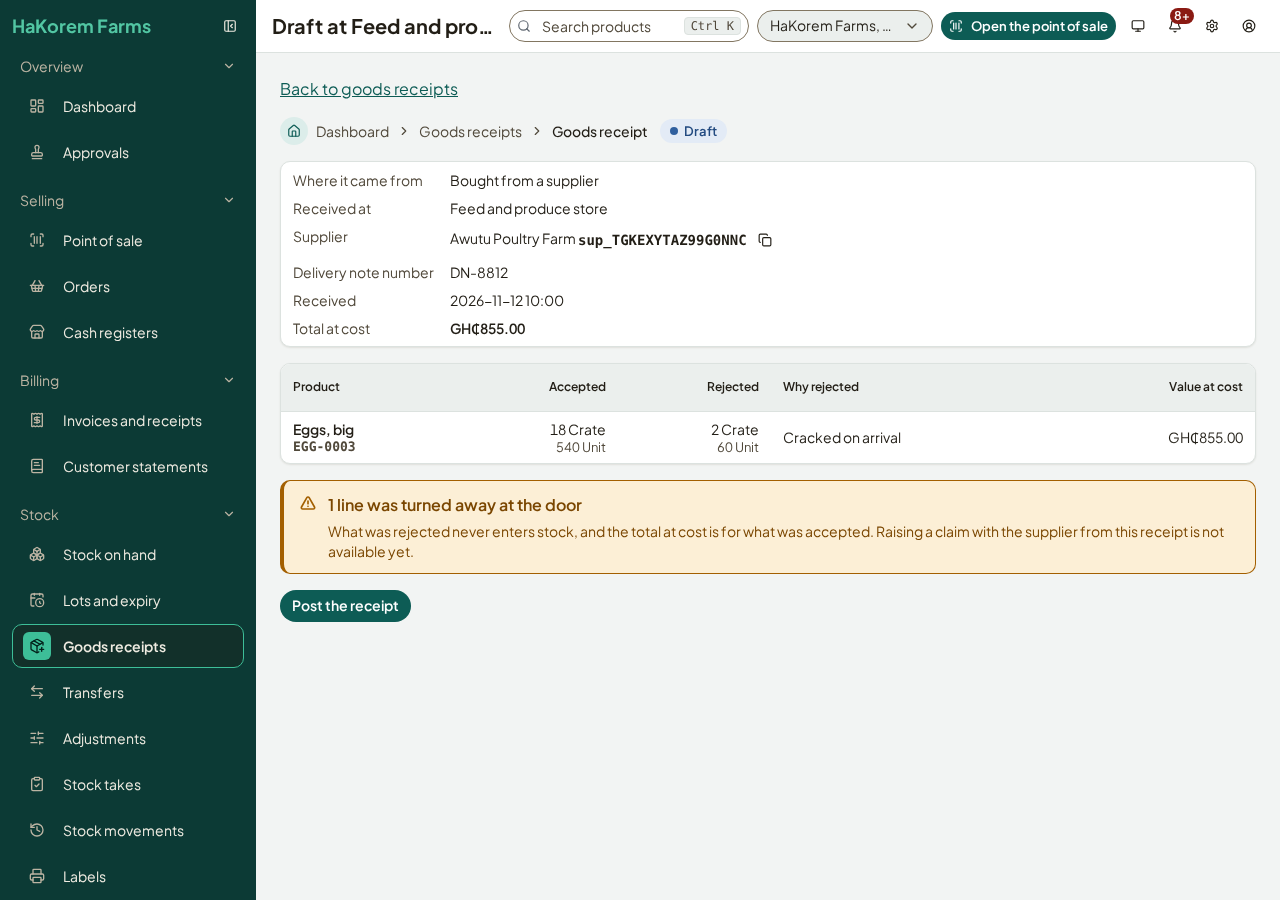
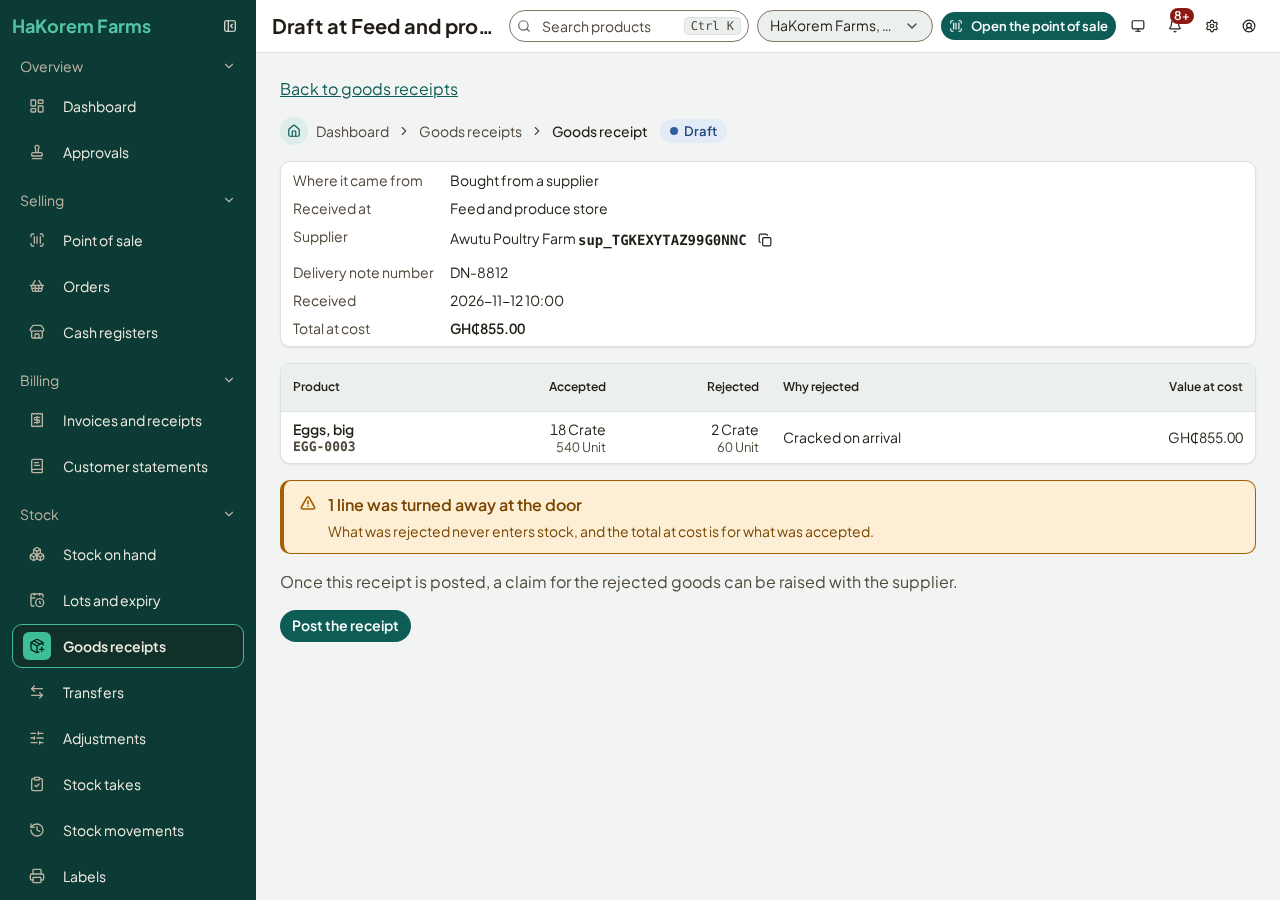
feat(stock): raise a claim with the supplier from a posted receipt's rejected lines (CR-036, 2.4.0)
A posted purchase receipt against an order with rejected lines raises one
claim, confirmed first with the rejected lines and their reasons. Only a
note is sent: the value is the server's, from the order's price. The
receipt then reads its claim back, open or settled, line by line. The
refusal SUPPLIER_CLAIM_INVALID (2.4.0) has its words. CR-036 and CR-037
are answered.

Claude-Session: https://claude.ai/code/session_018QxPTsocViUFwSmsfH6PdH

Changed region(s): [[0.2188, 0.5911, 1.0, 0.7156]]

diff --git a/apps/console/src/stock/ReceiptClaims.tsx b/apps/console/src/stock/ReceiptClaims.tsx
@@ -1,0 +1,211 @@
+import { useState } from 'react';
+import { useTranslation } from 'react-i18next';
+import type { components } from '@hakorem/api-client';
+import {
+  Alert,
+  Button,
+  Card,
+  CardBody,
+  CardHeader,
+  CardTitle,
+  Field,
+  MoneyDisplay,
+  QuantityDisplay,
+  QueryBoundary,
+  Skeleton,
+  StatusBadge,
+  Textarea,
+} from '@hakorem/ui';
+import { useAuth } from '../auth/AuthProvider';
+import { shownFailure } from '../auth/StepUp';
+import { useApiMutation, useApiQuery } from '../data/api';
+import { ConfirmDialog } from '../lib/ConfirmDialog';
+import { useIntentKey } from '../lib/queries';
+import { ReadableId } from '../lib/ReadableId';
+import { useStateLabels } from '../lib/states';
+import { useUnits } from './units';
+
+type S = components['schemas'];
+type Claim = S['SupplierClaim'];
+
+/**
+ * The claim for goods turned away at the door (CR-036, contract 2.4.0): from a posted purchase receipt
+ * against an order, raised in one step. The value is the server's, from the order's price; the screen
+ * sends only a note and shows what came back. One claim per receipt, open until the supplier's invoice
+ * or credit note settles it.
+ */
+export function ReceiptClaims({
+  receipt,
+  reasonName,
+}: {
+  receipt: S['GoodsReceipt'];
+  reasonName: (code: string) => string;
+}) {
+  const { t } = useTranslation(['stock', 'common']);
+  const auth = useAuth();
+  const canRead = auth.can('pur.supplier_invoice.read');
+  const canRaise = auth.can('pur.supplier_invoice.create');
+  const claimable =
+    receipt.kind === 'PURCHASE' && receipt.status === 'POSTED' && receipt.purchaseOrder !== null;
+  const claims = useApiQuery(
+    'listGoodsReceiptClaims',
+    { path: { id: receipt.id } },
+    { enabled: claimable && canRead },
+  );
+  // The answer to the raise, kept on screen above the claim the receipt then reads back.
+  const [raised, setRaised] = useState<Claim | null>(null);
+  const labels = useStateLabels({
+    loading: t('claims.loading'),
+    emptyTitle: t('claims.none'),
+    errorTitle: t('claims.error'),
+    deniedTitle: t('claims.denied'),
+  });
+  if (receipt.status === 'DRAFT') {
+    return <p className="text-fg-muted">{t('claims.afterPosting')}</p>;
+  }
+  if (!claimable) return <p className="text-fg-muted">{t('claims.notClaimable')}</p>;
+  if (!canRead) return <p className="text-fg-muted">{t('claims.whoRaises')}</p>;
+  return (
+    <Card>
+      <CardHeader>
+        <CardTitle asChild>
+          <h2>{t('claims.title')}</h2>
+        </CardTitle>
+      </CardHeader>
+      <CardBody className="grid gap-3">
+        {raised === null ? null : (
+          <Alert severity="good" title={t('claims.raised', { supplier: raised.supplier.name })}>
+            {t('claims.claimed')} <MoneyDisplay pesewas={raised.claimedPesewas} strong />
+          </Alert>
+        )}
+        <QueryBoundary
+          query={claims}
+          labels={labels}
+          isEmpty={() => false}
+          loadingFallback={<Skeleton label={labels.loading} shape="block" className="h-24" />}
+        >
+          {(page) => {
+            const claim = page.data[0];
+            if (claim !== undefined) return <ClaimView claim={claim} reasonName={reasonName} />;
+            return canRaise ? (
+              <RaiseClaim receipt={receipt} reasonName={reasonName} onRaised={setRaised} />
+            ) : (
+              <p>{t('claims.noneYet')}</p>
+            );
+          }}
+        </QueryBoundary>
+      </CardBody>
+    </Card>
+  );
+}
+
+function ClaimView({ claim, reasonName }: { claim: Claim; reasonName: (code: string) => string }) {
+  const { t } = useTranslation('stock');
+  const units = useUnits();
+  return (
+    <div className="grid gap-3">
+      <p className="flex flex-wrap items-center gap-2">
+        <StatusBadge
+          tone={claim.status === 'OPEN' ? 'warning' : 'good'}
+          label={t(`claims.status.${claim.status}`)}
+        />
+        <span>
+          {t('claims.claimed')} <MoneyDisplay pesewas={claim.claimedPesewas} strong />
+        </span>
+      </p>
+      <p className="text-fg-muted">
+        {claim.status === 'OPEN'
+          ? t('claims.openBody', { supplier: claim.supplier.name })
+          : t('claims.settledBody', {
+              by: claim.settledBy?.supplierInvoiceNo ?? '',
+            })}{' '}
+        <ReadableId value={claim.supplier.publicId} />
+      </p>
+      <ul className="grid list-disc gap-1 ps-5">
+        {claim.lines.map((line) => (
+          <li key={line.id}>
+            {line.product.name}, {reasonName(line.rejectionReasonCode)}:{' '}
+            <QuantityDisplay
+              quantity={line.qtyRejectedBase}
+              unit={units.name(line.baseUom)}
+              places={units.places(line.baseUom)}
+            />
+            , <MoneyDisplay pesewas={line.claimedValuePesewas} />
+          </li>
+        ))}
+      </ul>
+      {claim.note === null ? null : <p>{t('claims.noteShown', { note: claim.note })}</p>}
+    </div>
+  );
+}
+
+function RaiseClaim({
+  receipt,
+  reasonName,
+  onRaised,
+}: {
+  receipt: S['GoodsReceipt'];
+  reasonName: (code: string) => string;
+  onRaised: (claim: Claim) => void;
+}) {
+  const { t } = useTranslation(['stock', 'common']);
+  const units = useUnits();
+  const keyFor = useIntentKey();
+  const raise = useApiMutation('raiseSupplierClaim');
+  const [open, setOpen] = useState(false);
+  const [note, setNote] = useState('');
+  const rejected = receipt.lines.filter((l) => l.rejectionReasonCode !== null);
+  return (
+    <div className="grid gap-3">
+      <p>{t('claims.intro')}</p>
+      <div>
+        <Button onClick={() => setOpen(true)}>{t('claims.raise')}</Button>
+      </div>
+      <ConfirmDialog
+        open={open}
+        onOpenChange={setOpen}
+        title={t('claims.raiseTitle', { supplier: receipt.supplier?.name ?? '' })}
+        body={t('claims.raiseBody')}
+        confirmLabel={t('claims.raise')}
+        pendingLabel={t('claims.raising')}
+        pending={raise.isPending}
+        error={shownFailure(raise.error)}
+        failedTitle={t('claims.notRaised')}
+        onConfirm={() => {
+          const input = {
+            path: { id: receipt.id },
+            body: note.trim() === '' ? {} : { note: note.trim() },
+          };
+          raise
+            .mutateAsync(input, { idempotencyKey: keyFor(input) })
+            .then((claim) => {
+              setOpen(false);
+              onRaised(claim);
+            })
+            .catch(() => undefined);
+        }}
+      >
+        <ul className="grid list-disc gap-1 ps-5">
+          {rejected.map((line) => (
+            <li key={line.id}>
+              {line.product.name}, {reasonName(line.rejectionReasonCode ?? '')}:{' '}
+              <QuantityDisplay
+                quantity={line.qtyRejected}
+                unit={units.name(line.uom)}
+                places={units.places(line.uom)}
+              />
+            </li>
+          ))}
+        </ul>
+        <Field label={t('claims.note')} hint={t('claims.noteHint')}>
+          <Textarea
+            value={note}
+            onChange={(event) => setNote(event.target.value)}
+            rows={2}
+            maxLength={500}
+          />
+        </Field>
+      </ConfirmDialog>
+    </div>
+  );
+}

diff --git a/e2e/specs/console/eggs-buying.spec.ts b/e2e/specs/console/eggs-buying.spec.ts
@@ -3,6 +3,7 @@ import {
   expectNoAxeViolations,
   expectNoHorizontalScroll,
   signIn,
+  signInWithTotp,
   USERS,
 } from '../../support/helpers';
 import {
@@ -155,6 +156,48 @@ test.describe('buying eggs by the crate', () => {
     const confirm = page.getByRole('dialog', { name: 'Post this receipt?' });
     await expect(confirm).toContainText('Rejected, Cracked on arrival:');
     await expect(confirm).toContainText('855.00');
+  });
+
+  test('a claim for the cracked crates is raised from the posted receipt; the server values it', async ({
+    page,
+    api,
+  }) => {
+    seedEggs(api);
+    const raised = () => api.log.some((e) => e.operationId === 'raiseSupplierClaim');
+    api.rewrite('getGoodsReceipt', (body) => ({
+      ...eggReceipt(body as S['GoodsReceipt']),
+      status: 'POSTED',
+      receiptNo: 'GRN-2026-DDW-000081',
+    }));
+    // No claim until one is raised; then the receipt answers it (2.4.0, `listGoodsReceiptClaims`).
+    api.rewrite('listGoodsReceiptClaims', (body) =>
+      raised() ? body : { ...(body as object), data: [] },
+    );
+
+    await signInWithTotp(page, USERS.owner, `/goods-receipts/${ORDER_ID}`);
+    await expect(page.getByRole('heading', { name: 'Claim with the supplier' })).toBeVisible();
+    await expectNoHorizontalScroll(page);
+    await expectNoAxeViolations(page);
+    await page.getByRole('button', { name: 'Raise a claim' }).click();
+    const confirm = page.getByRole('dialog', { name: `Raise a claim with ${SUPPLIER.name}?` });
+    await expect(confirm).toContainText('Cracked on arrival');
+    await confirm
+      .getByLabel(/^Note for the supplier/)
+      .fill('Two crates cracked, signed by the driver');
+    await expectNoAxeViolations(page);
+    const sent = page.waitForRequest((r) => r.method() === 'POST' && r.url().endsWith('/claims'));
+    await confirm.getByRole('button', { name: 'Raise a claim' }).click();
+    // Only a note goes: the value is the server's, from the order's price (an amount is refused).
+    expect((await sent).postDataJSON()).toEqual({
+      note: 'Two crates cracked, signed by the driver',
+    });
+    const done = page
+      .getByRole('status')
+      .filter({ hasText: `A claim is raised with ${SUPPLIER.name}.` });
+    await expect(done).toContainText('GH₵11.09');
+    // The receipt then reads its claim back: open on the supplier's account, line by line.
+    await expect(page.getByText("Open: on Awutu Poultry Farm's account")).toBeVisible();
+    await expect(page.getByRole('button', { name: 'Raise a claim' })).toHaveCount(0);
   });
 
   test('the storekeeper reads the purchase orders', async ({ page }) => {

diff --git a/apps/console/src/test/fakeAuthServer.ts b/apps/console/src/test/fakeAuthServer.ts
@@ -226,6 +226,9 @@ const OWNER_EGG_PERMISSIONS = [
   'mdm.price_list.assign',
   'mdm.price_list.create',
   'mdm.customer.read',
+  // 2.4.0: a claim for goods rejected at the door is raised and read with the supplier invoice permissions.
+  'pur.supplier_invoice.read',
+  'pur.supplier_invoice.create',
 ];
 
 /** What the owner holds for the F5b screens: the dashboard, branches and locations, and the new lists. */
@@ -397,6 +400,9 @@ const ACCOUNTANT_PERMISSIONS = [
   'bil.debit_note.create',
   'bil.credit_note.create',
   'doc.document.read',
+  // 2.4.0: the Accountant raises and reads a claim with a supplier, as the seed gives it.
+  'pur.supplier_invoice.read',
+  'pur.supplier_invoice.create',
 ];
 
 /** Keyed by lower-case email. Permission codes are the contract's `x-permission` values. */

diff --git a/apps/console/src/stock/MoveScreens.tsx b/apps/console/src/stock/MoveScreens.tsx
@@ -48,6 +48,7 @@ import {
   ReceiptStatusBadge,
   TransferStatusBadge,
 } from './presentation';
+import { ReceiptClaims } from './ReceiptClaims';
 import { ReceiveTransfer } from './ReceiveTransfer';
 import {
   ANY,
@@ -1049,6 +1050,7 @@ export function ReceiptScreen() {
                 {t('receipts.rejectedBody')}
               </Alert>
             ) : null}
+            {rejected.length > 0 ? <ReceiptClaims receipt={r} reasonName={reasonName} /> : null}
             {r.status === 'DRAFT' && auth.can('inv.goods_receipt.post') ? (
               <DraftAction
                 label={t('receipts.post')}

diff --git a/e2e/specs/console/screenshots.spec.ts b/e2e/specs/console/screenshots.spec.ts
@@ -833,6 +833,17 @@ const EGG_SHOTS: Shot[] = [
       ),
   },
   {
+    name: 'goods-receipt-claim',
+    path: `/goods-receipts/${ID}`,
+    ready: 'account until their invoice',
+    prepare: (api) =>
+      api.rewrite('getGoodsReceipt', (body) => ({
+        ...eggReceipt(body as components['schemas']['GoodsReceipt']),
+        status: 'POSTED',
+        receiptNo: 'GRN-2026-DDW-000081',
+      })),
+  },
+  {
     name: 'price-list-egg-prices',
     path: `/price-list-versions/${EGG_DRAFT}`,
     ready: 'from 10 Crate',

diff --git a/docs/CONTRACT_REQUESTS.md b/docs/CONTRACT_REQUESTS.md
@@ -39,8 +39,8 @@ Things the frontend needs that `contract/openapi.yaml` does not yet offer, or mu
 | CR-033 | 2026-11-16 | Open, amended F10e        |
 | CR-034 | 2026-11-17 | Answered (2.0.0), built   |
 | CR-035 | 2026-11-17 | Answered (2.3.0), built   |
-| CR-036 | 2026-11-17 | Open (backend B09e)       |
-| CR-037 | 2026-11-17 | Open                      |
+| CR-036 | 2026-11-17 | Answered (2.4.0), built   |
+| CR-037 | 2026-11-17 | Answered (2.4.0)          |
 | CR-038 | 2026-11-17 | Open, built behind switch |
 | CR-039 | 2026-11-17 | Open                      |
 | CR-040 | 2026-11-17 | Open                      |
@@ -605,7 +605,7 @@ Field names are a suggestion; the frontend will read whatever B05x names them. W
 
 **Until this lands:** no claim screen. The egg session's part a builds the receipt's rejection with its reason (CR-035) first.
 
-**Still open after 2.3.0 (egg session):** 2.3.0 says the claim "follows in B09e continued 3, A-271". The backend's `b09e3-eggs-claims` branch carried no claim shape when the egg session read it. The owner (2026-11-17): wait for the contract. A receipt with rejected lines says that raising a claim from it is not available yet.
+**Answered in 2.4.0 (B09e continued 3, ADR-0076), built in the egg session:** `raiseSupplierClaim` from a posted purchase receipt against an order, its value the server's from the order's price (the body takes only a note), and `listGoodsReceiptClaims`, so the receipt shows its claim, open or settled. The owner had said to wait for the contract (2026-11-17); it landed during the session. The claim's credit note and its settlement by an invoice (`draftSupplierClaimCreditNote`, `settleSupplierClaim`) belong to the supplier invoice screens, which are not built yet.
 
 ## CR-037. The examples name a void's approval `ord.order.void.approve`; the operations and the seed say `ord.void.approve` (example fix)
 
@@ -615,6 +615,8 @@ Field names are a suggestion; the frontend will read whatever B05x names them. W
 **Request:** change the examples to `ord.void.approve`, or say which name is right.
 
 **Until this lands:** the fake follows the seed (`ord.void.approve`).
+
+**Answered in 2.4.0:** the examples name `ord.void.approve`.
 
 ## CR-038. The till sells a product in more than one unit, each with its own price (additive)
 

diff --git a/docs/adr/0049-eggs-are-one-product-sold-by-the-crate-and-by-the-egg.md b/docs/adr/0049-eggs-are-one-product-sold-by-the-crate-and-by-the-egg.md
@@ -28,4 +28,4 @@ Option 2, as the owner set it out:
 - Unit conversions (A-F4-05) stay read-only in the console unless the egg contract asks the console to set them.
 - The egg screens come in their own session, after the backend's egg phase merges, in the owner's order: buying (purchase orders, the supplier on the goods receipt, breakage rejected at the door with a reason and a claim: CR-035, CR-036), then selling in two units, then bulk buyer prices (the F10c report's opening message).
 - Revisit if the egg contract does not hold stock in the smallest unit.
-- **The egg session (2026-11-17), after contract 2.3.0 was synced and read:** buying (purchase orders in crates, the supplier and the order on a goods receipt, rejections at the door with a CR-035 reason) and bulk buyer prices (a price per selling unit, breaks in crates, a list given to a buyer) are built on the contract. The contract has no second unit at the till or in the shop, so the owner decided: the till is built against CR-038 behind its switch (ADR 0046), and the shop waits for CR-039. The claim from a receipt (CR-036) waits for the contract.
+- **The egg session (2026-11-17), after contract 2.3.0 was synced and read:** buying (purchase orders in crates, the supplier and the order on a goods receipt, rejections at the door with a CR-035 reason) and bulk buyer prices (a price per selling unit, breaks in crates, a list given to a buyer) are built on the contract. The contract has no second unit at the till or in the shop, so the owner decided: the till is built against CR-038 behind its switch (ADR 0046), and the shop waits for CR-039. The claim from a receipt (CR-036) waited for the contract; 2.4.0 carried it during the session, and the posted receipt raises it.
